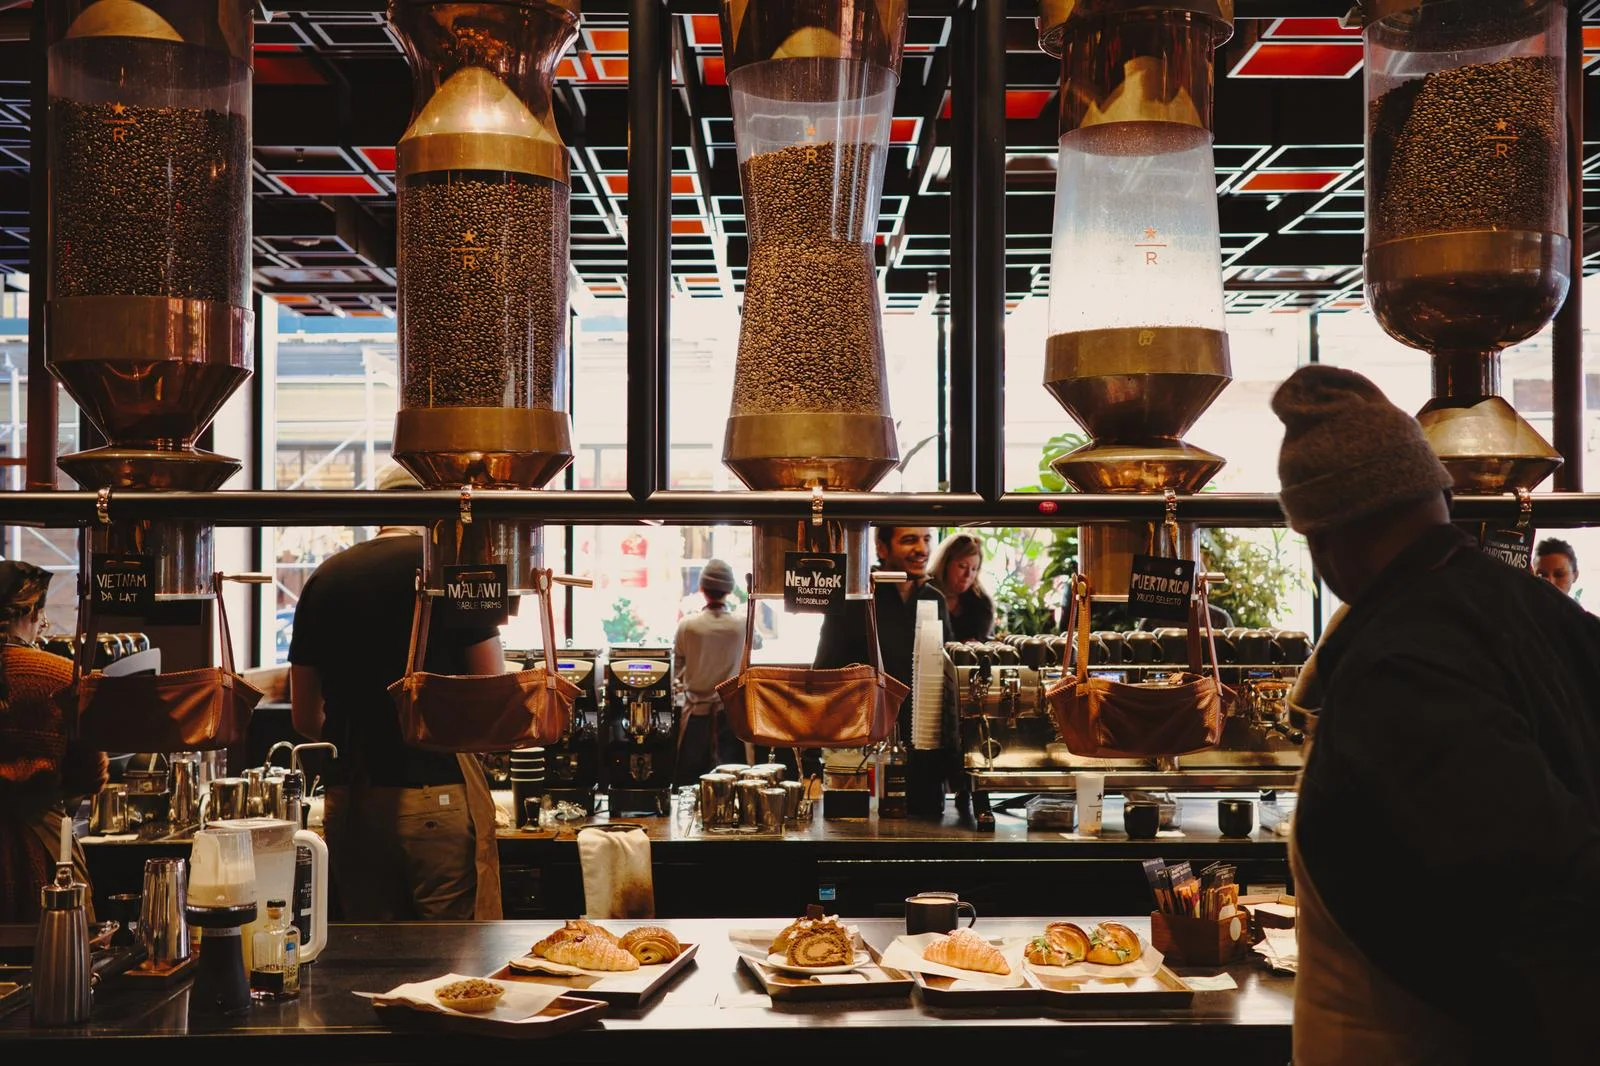
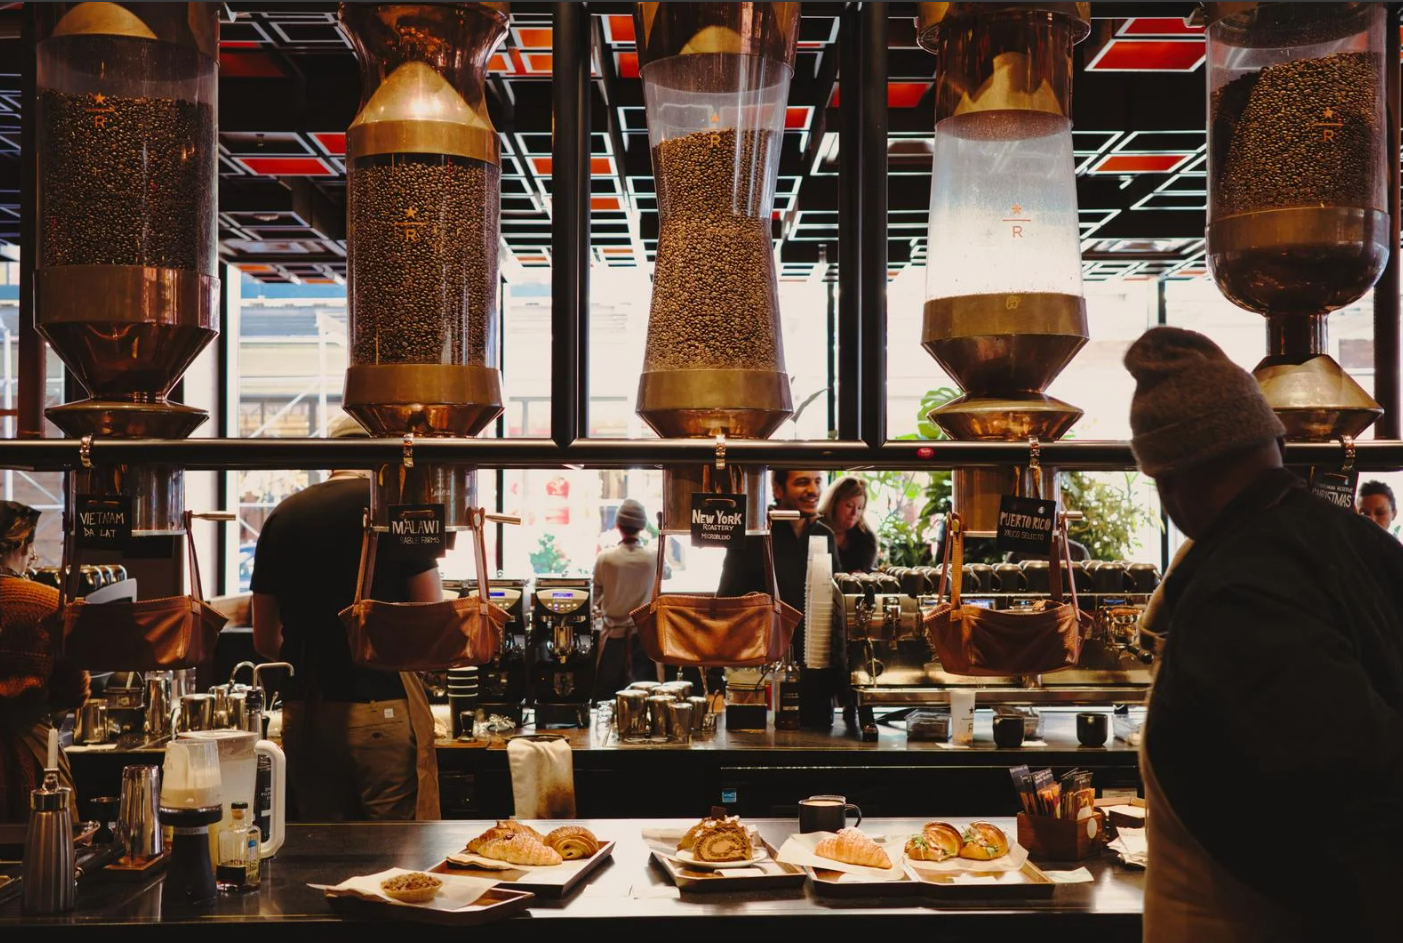
2026_0203_0953_データベース作り直し_salesのinput画面のCSS整え

diff --git a/src/main/resources/static/css/style.css b/src/main/resources/static/css/style.css
@@ -178,12 +178,35 @@ form {
     color: #6b4e3d;
 }
 
-.form-row input {
+.form-row select,
+.form-row input[type="date"] {
     width: 240px;
-    padding: 6px 10px;
-    border: 1px solid #7fb99b;
+    padding: 8px 12px;
+    font-size: 14px;
+
+    border: 1px solid #c7d6cc;
     border-radius: 6px;
+
+    background-color: #ffffff;
+    color: #2f4f3e;
+
+    box-shadow: 0 1px 3px rgba(0,0,0,0.08);
+    transition: all 0.2s ease;
 }
+
+.form-row select:focus,
+.form-row input[type="date"]:focus {
+    outline: none;
+    border-color: #5fa777;
+    box-shadow: 0 0 0 2px rgba(95,167,119,0.25);
+}
+
+
+input[type="date"]::-webkit-calendar-picker-indicator {
+    opacity: 0.7;
+    cursor: pointer;
+}
+
 
 
 .error-message {
@@ -209,4 +232,20 @@ form {
 .colon {
     text-align: center;
 }
+
+.flatpickr-calendar {
+    border-radius: 10px;
+    box-shadow: 0 10px 25px rgba(0,0,0,0.15);
+    font-family: "Segoe UI", sans-serif;
+}
+
+.flatpickr-day.selected {
+    background: #5fa777;
+    border-color: #5fa777;
+}
+
+.flatpickr-day.today {
+    border-color: #5fa777;
+}
+
 

diff --git a/src/main/resources/templates/sales/input.html b/src/main/resources/templates/sales/input.html
@@ -2,6 +2,20 @@
 <html xmlns:th="http://www.thymeleaf.org">
 <head>
 	<link rel="stylesheet" href="/css/style.css">
+	<link rel="stylesheet" href="https://cdn.jsdelivr.net/npm/flatpickr/dist/flatpickr.min.css">
+	<script src="https://cdn.jsdelivr.net/npm/flatpickr"></script>
+	<script src="https://cdn.jsdelivr.net/npm/flatpickr/dist/l10n/ja.js"></script>
+	
+	<script>
+	document.addEventListener("DOMContentLoaded", function () {
+	    flatpickr("#salesDate", {
+	        locale: "ja",
+	        dateFormat: "Y-m-d"
+	    });
+	});
+	</script>
+
+
 <meta charset="UTF-8">
 <title>販売情報入力</title>
 </head>
@@ -63,8 +77,10 @@
 
     <!-- 販売日 -->
 	<div class="form-row">
-    <label>販売日</label>
-    <input type="date" th:field="*{salesDate}">
+	    <label>販売日</label>
+	    <input type="text"
+	           id="salesDate"
+	           th:field="*{salesDate}">
 	</div>
 
     <button type="submit">確認</button>
